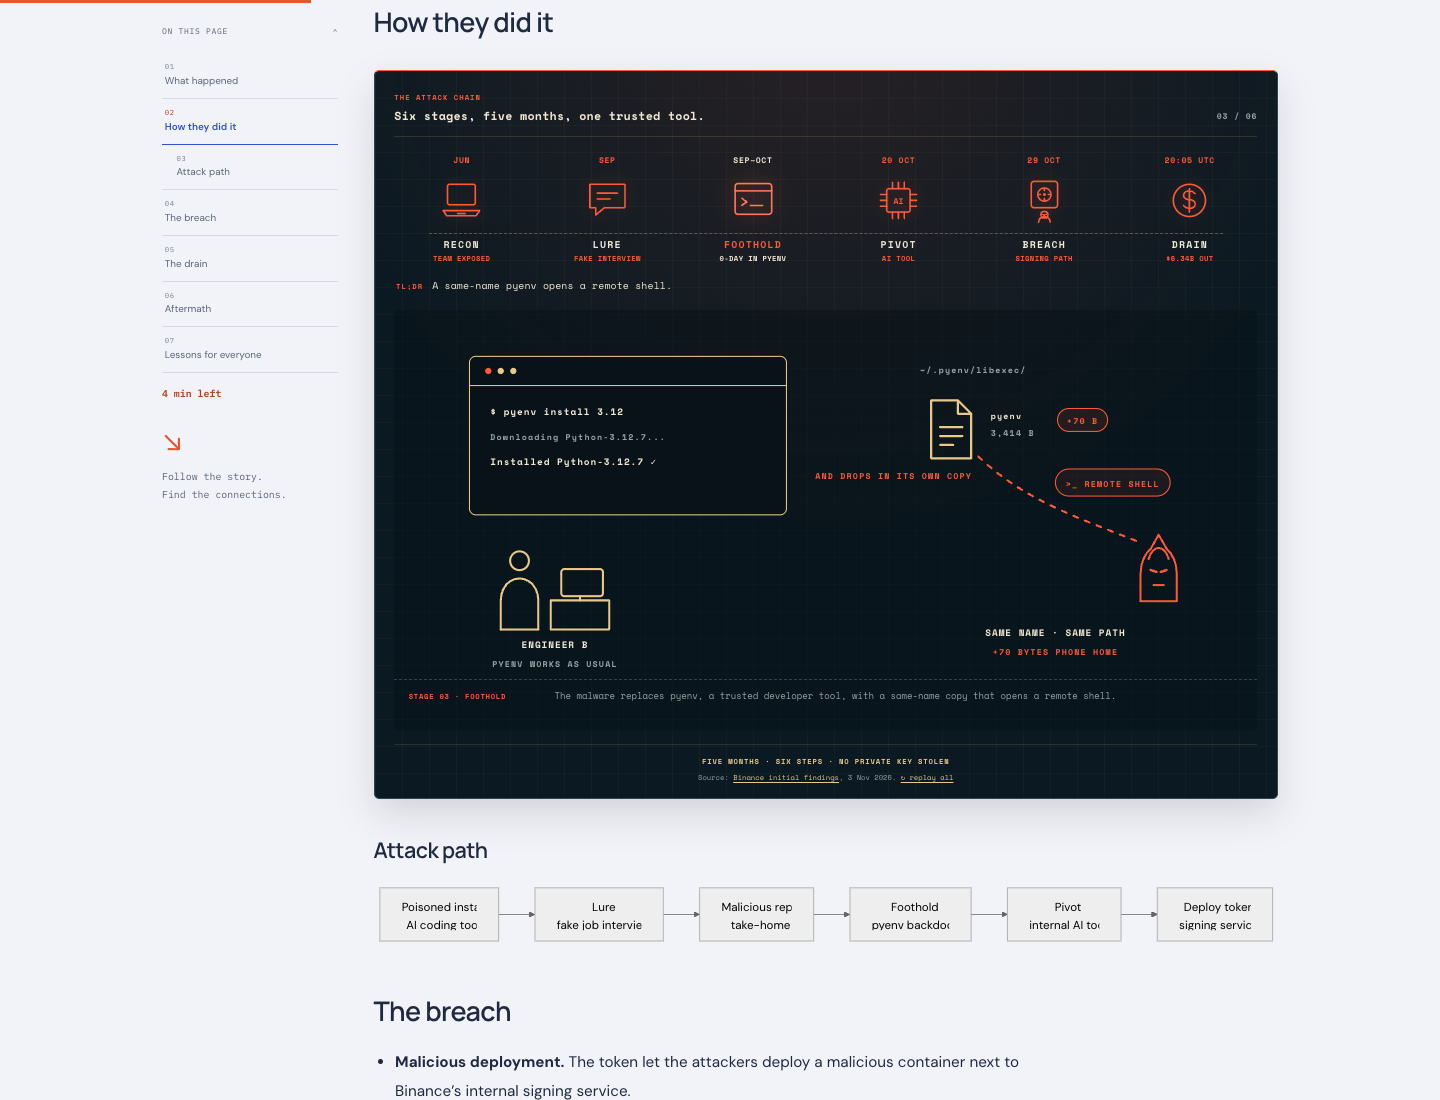
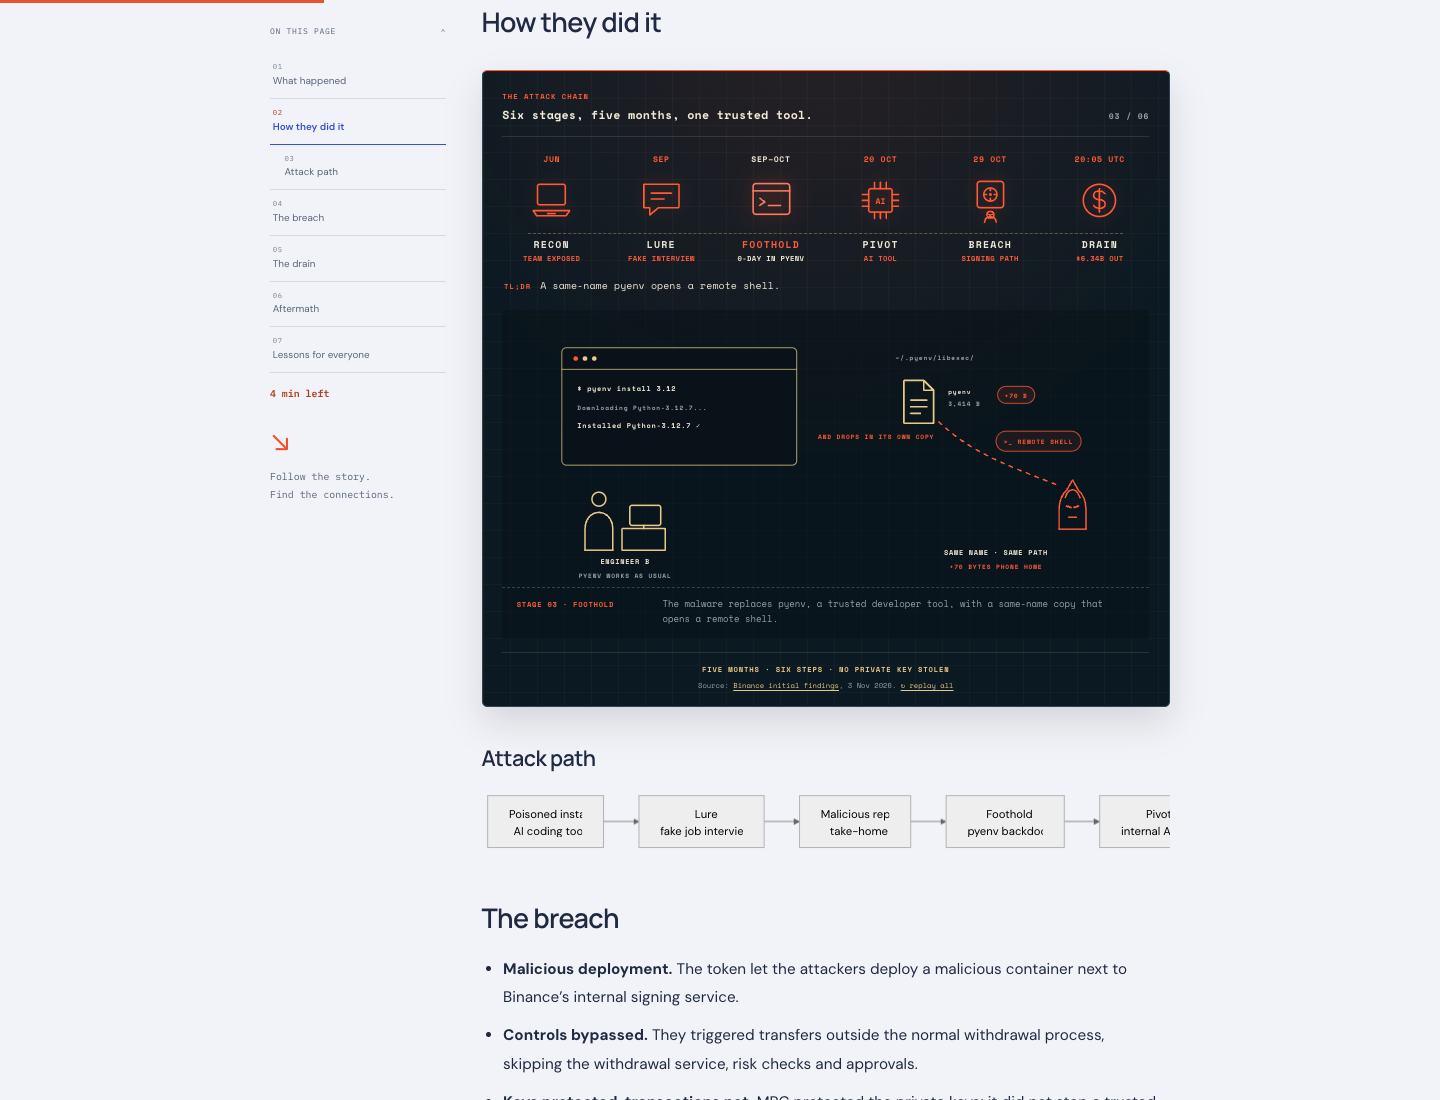
Tighten article canvas to the reading measure and clean project card descriptions

diff --git a/css/site.css b/css/site.css
@@ -107,7 +107,8 @@ button:focus-visible, a:focus-visible, input:focus-visible, summary:focus-visibl
 .empty-state { padding-block: 35px; color: var(--muted); }.notebook-note { display: flex; align-items: center; gap: 24px; padding-block: 28px; border-block: 1px solid var(--line); margin-top: 30px; }.spark { color: var(--citrus); font-size: 32px; line-height: 1; }.notebook-note p { font: 14px/1.8 var(--mono); margin: 0; }.notebook-note p strong { font-weight: 500; }.notebook-note .text-link { margin-left: auto; }
 .site-footer { display: flex; align-items: center; gap: 28px; padding-block: 35px; }.site-footer .wordmark { font-size: 19px; }.site-footer > div > p { font-size: 11px; color: var(--muted); margin: 7px 0 0; }.site-footer nav { display: flex; flex-wrap: wrap; gap: 20px; font-size: 11px; margin-left: auto; }.site-footer nav a:hover { color: var(--accent); }.footer-credit { color: var(--muted); font: 8px var(--mono); }
 /* Articles: existing content is retained verbatim. */
-#post { max-width: 1240px; }
+/* Article canvas = contents rail + gap + the 760px reading measure; wide figures span the measure, margins stay symmetric. */
+#post { max-width: 1000px; }
 .post-header { padding: 32px 0 40px; max-width: 1080px; margin: 0 auto; }.back-link { color: var(--muted); font-size: 11px; display: inline-flex; margin-bottom: 32px; }.post-topics { display: flex; flex-wrap: wrap; gap: 8px 15px; color: var(--accent); font: 10px/1.7 var(--mono); text-transform: uppercase; }.post-topics a:hover { text-decoration: underline; }
 .post-header h1 { font: 600 clamp(36px, 4.6vw, 68px)/1.12 var(--heading); letter-spacing: -.045em; margin: 20px 0 24px; overflow-wrap: break-word; }.post-deck { color: var(--muted); font-size: 17px; line-height: 1.8; margin: 0 0 25px; max-width: 790px; }
 .post-byline { display: flex; align-items: center; gap: 11px; font-size: 11px; }.post-byline img { border-radius: 50%; object-fit: cover; width: 40px; height: 40px; }.post-byline > div > a { font-weight: 600; }.post-byline p { display: flex; align-items: center; flex-wrap: wrap; gap: 10px; color: var(--muted); margin: 3px 0 0; font-size: 10px; }.copy-link { margin-left: auto; border: 1px solid var(--line); padding: 8px 12px; background: var(--surface); font: 10px var(--mono); }

diff --git a/_includes/post-card.html b/_includes/post-card.html
@@ -6,7 +6,13 @@
   <div class="story-body">
     <div class="story-meta"><span>{{ card_post.categories | first | default: 'Notes' | replace: '-', ' ' }}</span><time datetime="{{ card_post.date | date_to_xmlschema }}">{{ card_post.date | date: '%d %b %Y' }}</time>{% include read_time.html post=card_post %}</div>
     <h2><a href="{{ card_post.url | relative_url }}">{{ card_post.title }}</a></h2>
-    <p>{{ card_post.description | default: card_post.excerpt | strip_html | normalize_whitespace | truncate: 180 }}</p>
+    {% assign card_description = card_post.description | default: card_post.excerpt | strip_html | normalize_whitespace | truncate: 180 %}
+    {% if card_post.url contains 'little-adventurers' %}
+      {% assign card_description = 'I built a free, screen-free learning app for kids.' %}
+    {% elsif card_post.url contains 'healthify' %}
+      {% assign card_description = 'I built a locally deployed health tracker app.' %}
+    {% endif %}
+    <p>{{ card_description }}</p>
     <div class="story-footer"><span>{{ card_post.categories | join: ' / ' }}</span><a class="round-link" href="{{ card_post.url | relative_url }}" aria-label="Read {{ card_post.title | escape }}">↗</a></div>
   </div>
 </article>
